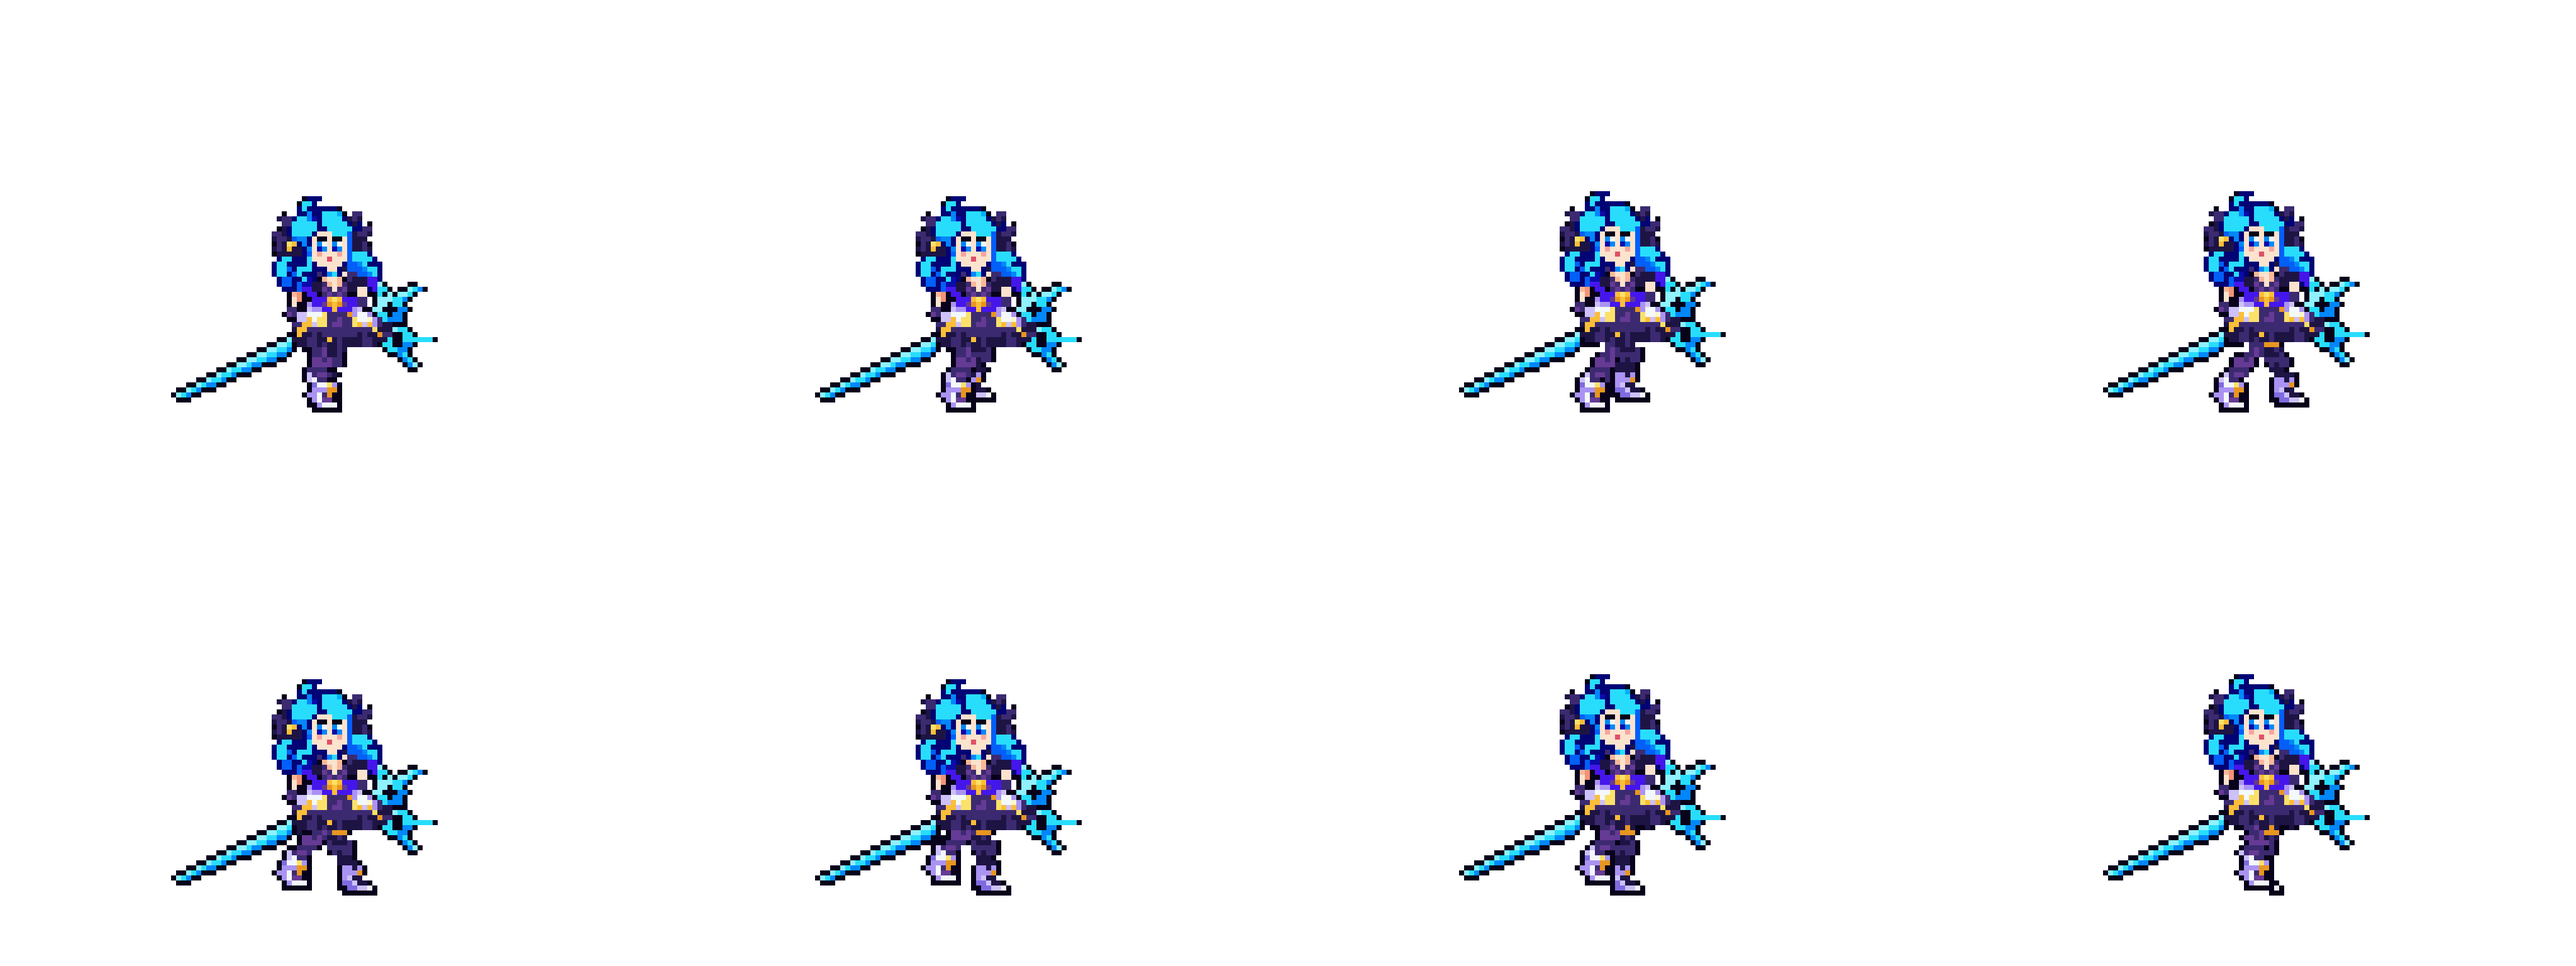
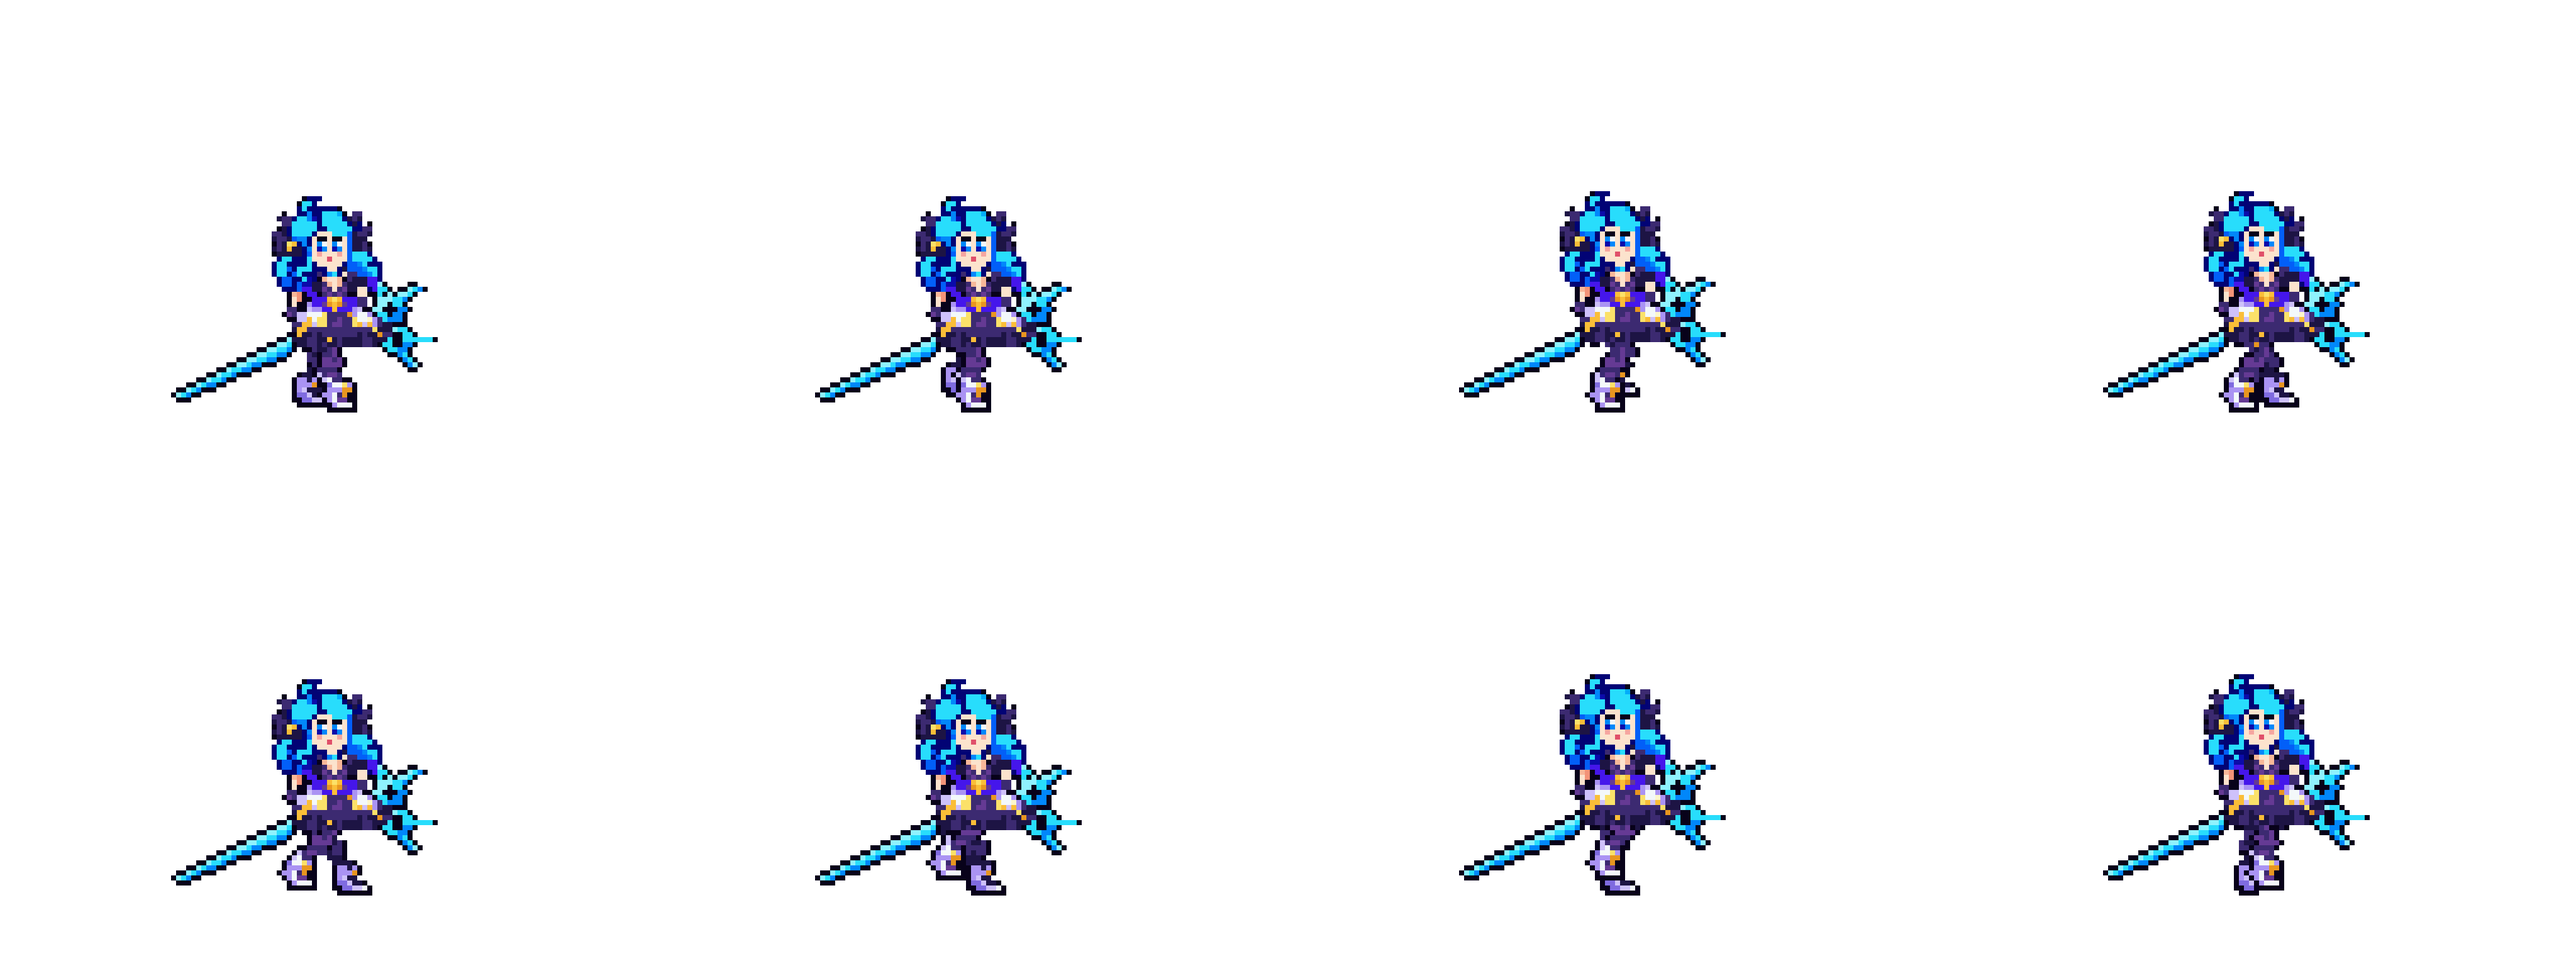
Gwen run: hips drawn in, a longer stride and a higher lift while passing (the legs had hidden each other)

diff --git a/tools/art/rig_gwen.py b/tools/art/rig_gwen.py
@@ -294,7 +294,11 @@ def stand(P, pose):
 # contact, loading, mid-stance, push, toe-off, kick, passing, reach; the other leg half a cycle later. The hip stays
 # under the skirt; the thigh rows lean to the knee, the shin rows on to the ankle, the boot rows move whole with the
 # ankle (the user: v1's legs slid as straight sticks, 「走路的时候 说不出的怪」)
-CYCLE = [(1, 3, 0), (1, 1, 0), (0, -1, 0), (-1, -2, 0), (-1, -3, 1), (0, -2, 2), (1, 0, 2), (2, 3, 1)]
+CYCLE = [(1, 4, 0), (1, 2, 0), (0, 0, 0), (-1, -2, 0), (-1, -4, 1), (0, -3, 3), (2, 0, 3), (2, 3, 1)]
+# the hips drawn in under the skirt (the near leg 2 columns right, the far one 2 left): 6 apart, a stride of 3 put both
+# feet on one spot at the contacts and the near leg hid the far one (「两个腿上都有像素丢失吧？」); 2 apart they part at
+# the contacts and cross while passing (run-crossing: twice the swing must exceed the hip gap)
+HIP_IN = {"near": 2, "far": -2}
 BOB = [1, 1, 0, 0, 1, 1, 0, 0]          # the body a row lower at each contact - two rows (and the curls and scissors a frame
 LAG = 0                                # late, a reviewer's idea) squashed her onto her legs and tore the curls from the
 CURLS = ((68, 82), (60, 68))           # head: 「走路时模型变形了吧？」
@@ -358,8 +362,8 @@ def run_frame(P, k):
     sc = P.scissors.copy()
     body[curls] = 0
     c = np.zeros((128, 128, 4), np.uint8)
-    for leg, ph in ((far, (k + 4) % 8), (near, k)):
-        K.put(c, bent(leg, *CYCLE[ph]), 0, 0)
+    for leg, ph, side in ((far, (k + 4) % 8, "far"), (near, k, "near")):
+        K.put(c, shifted(bent(leg, *CYCLE[ph]), HIP_IN[side], 0), 0, 0)
     dy = BOB[k]
     late = BOB[k - LAG]
     K.put(c, shifted(body, 0, dy), 0, 0)
